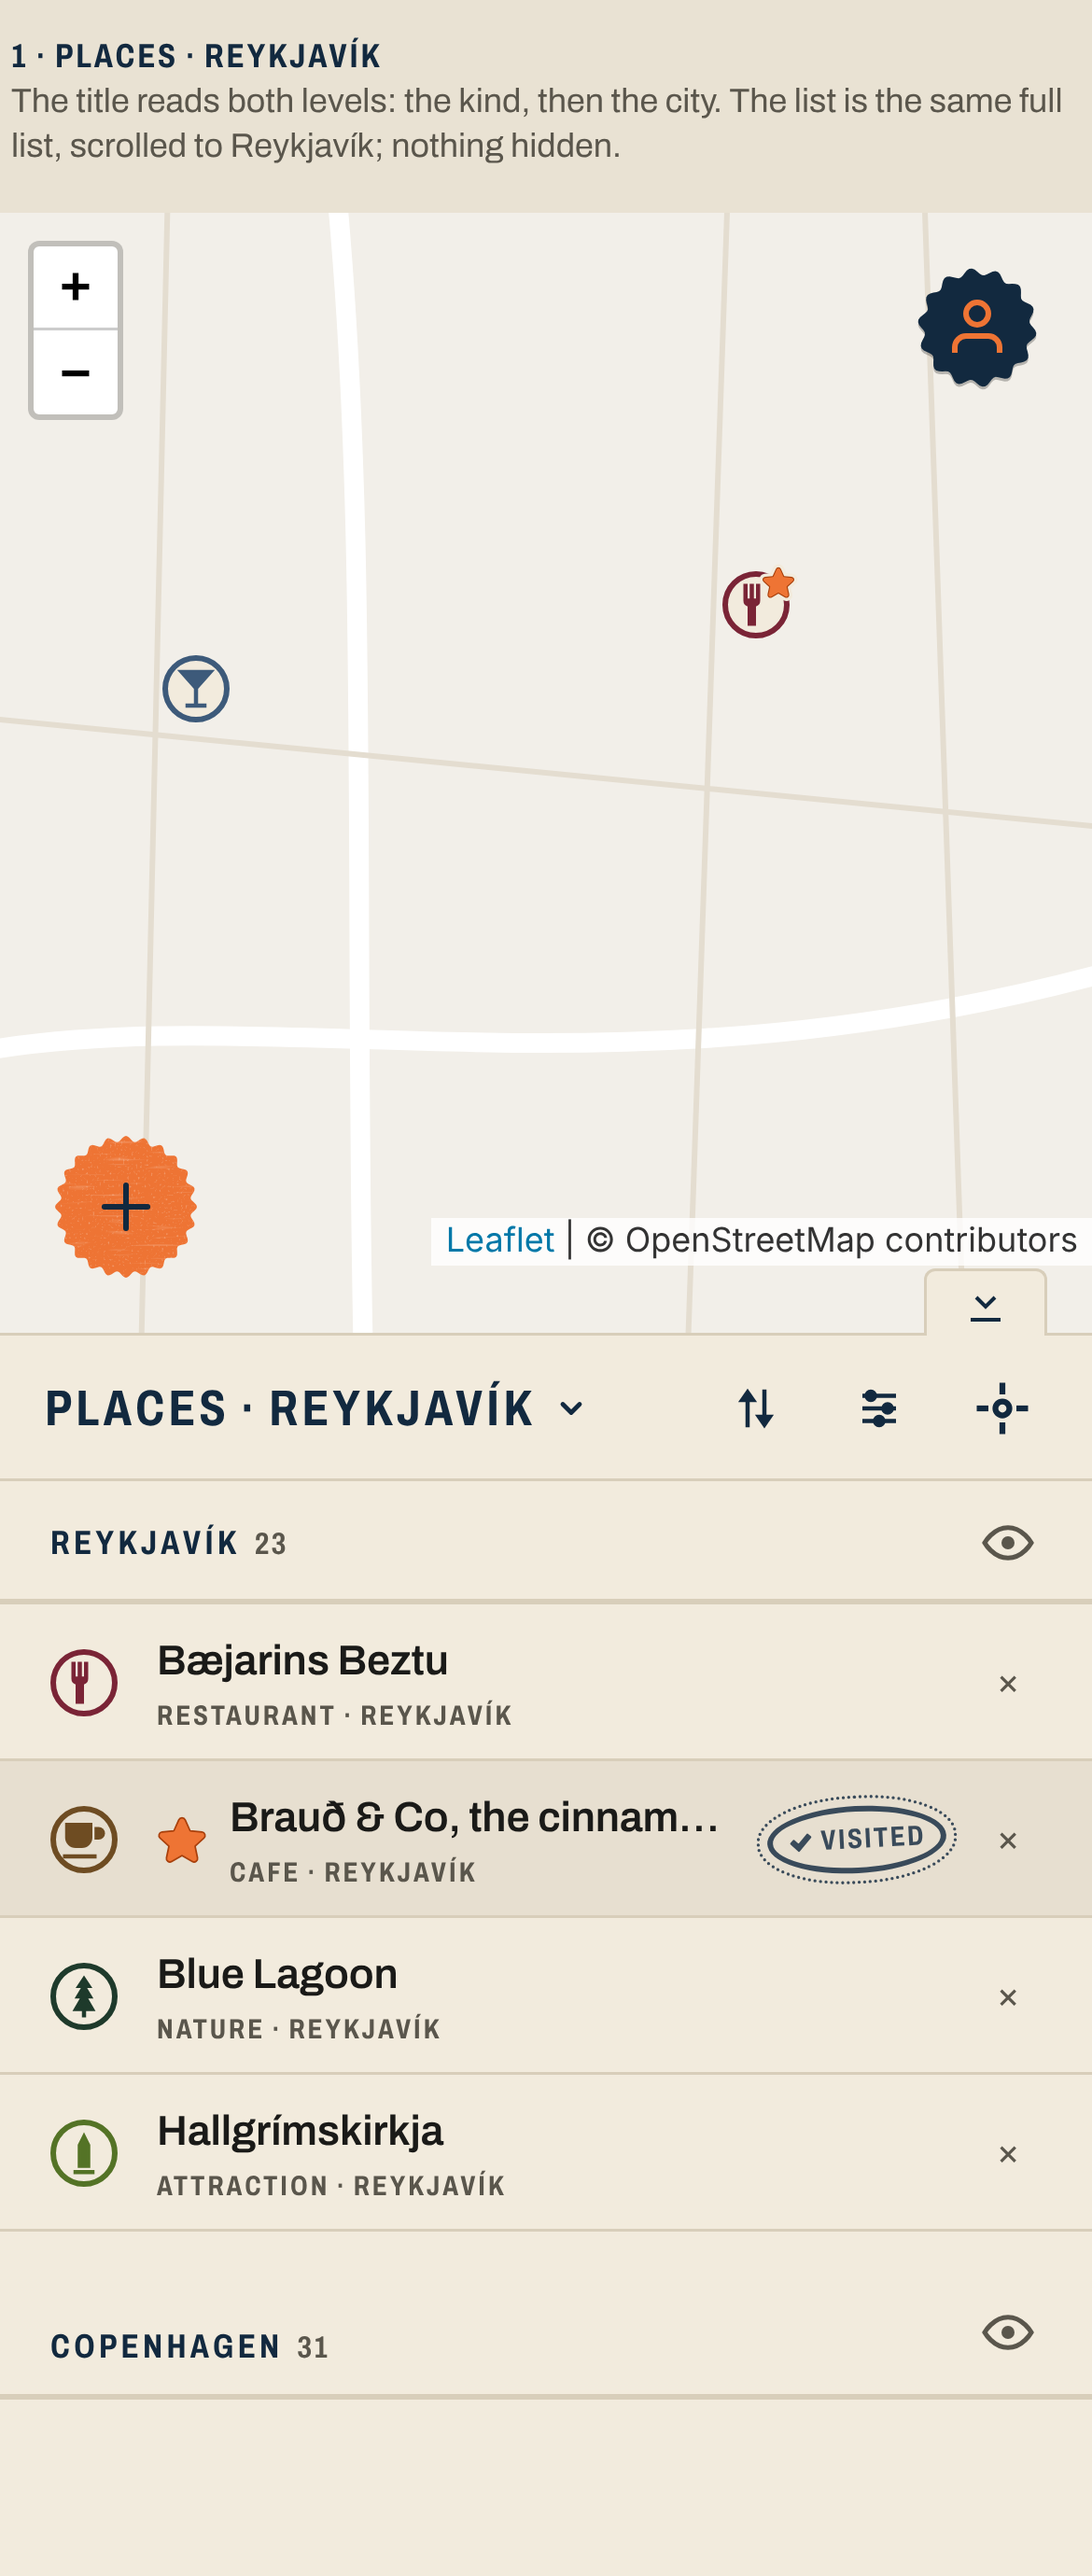
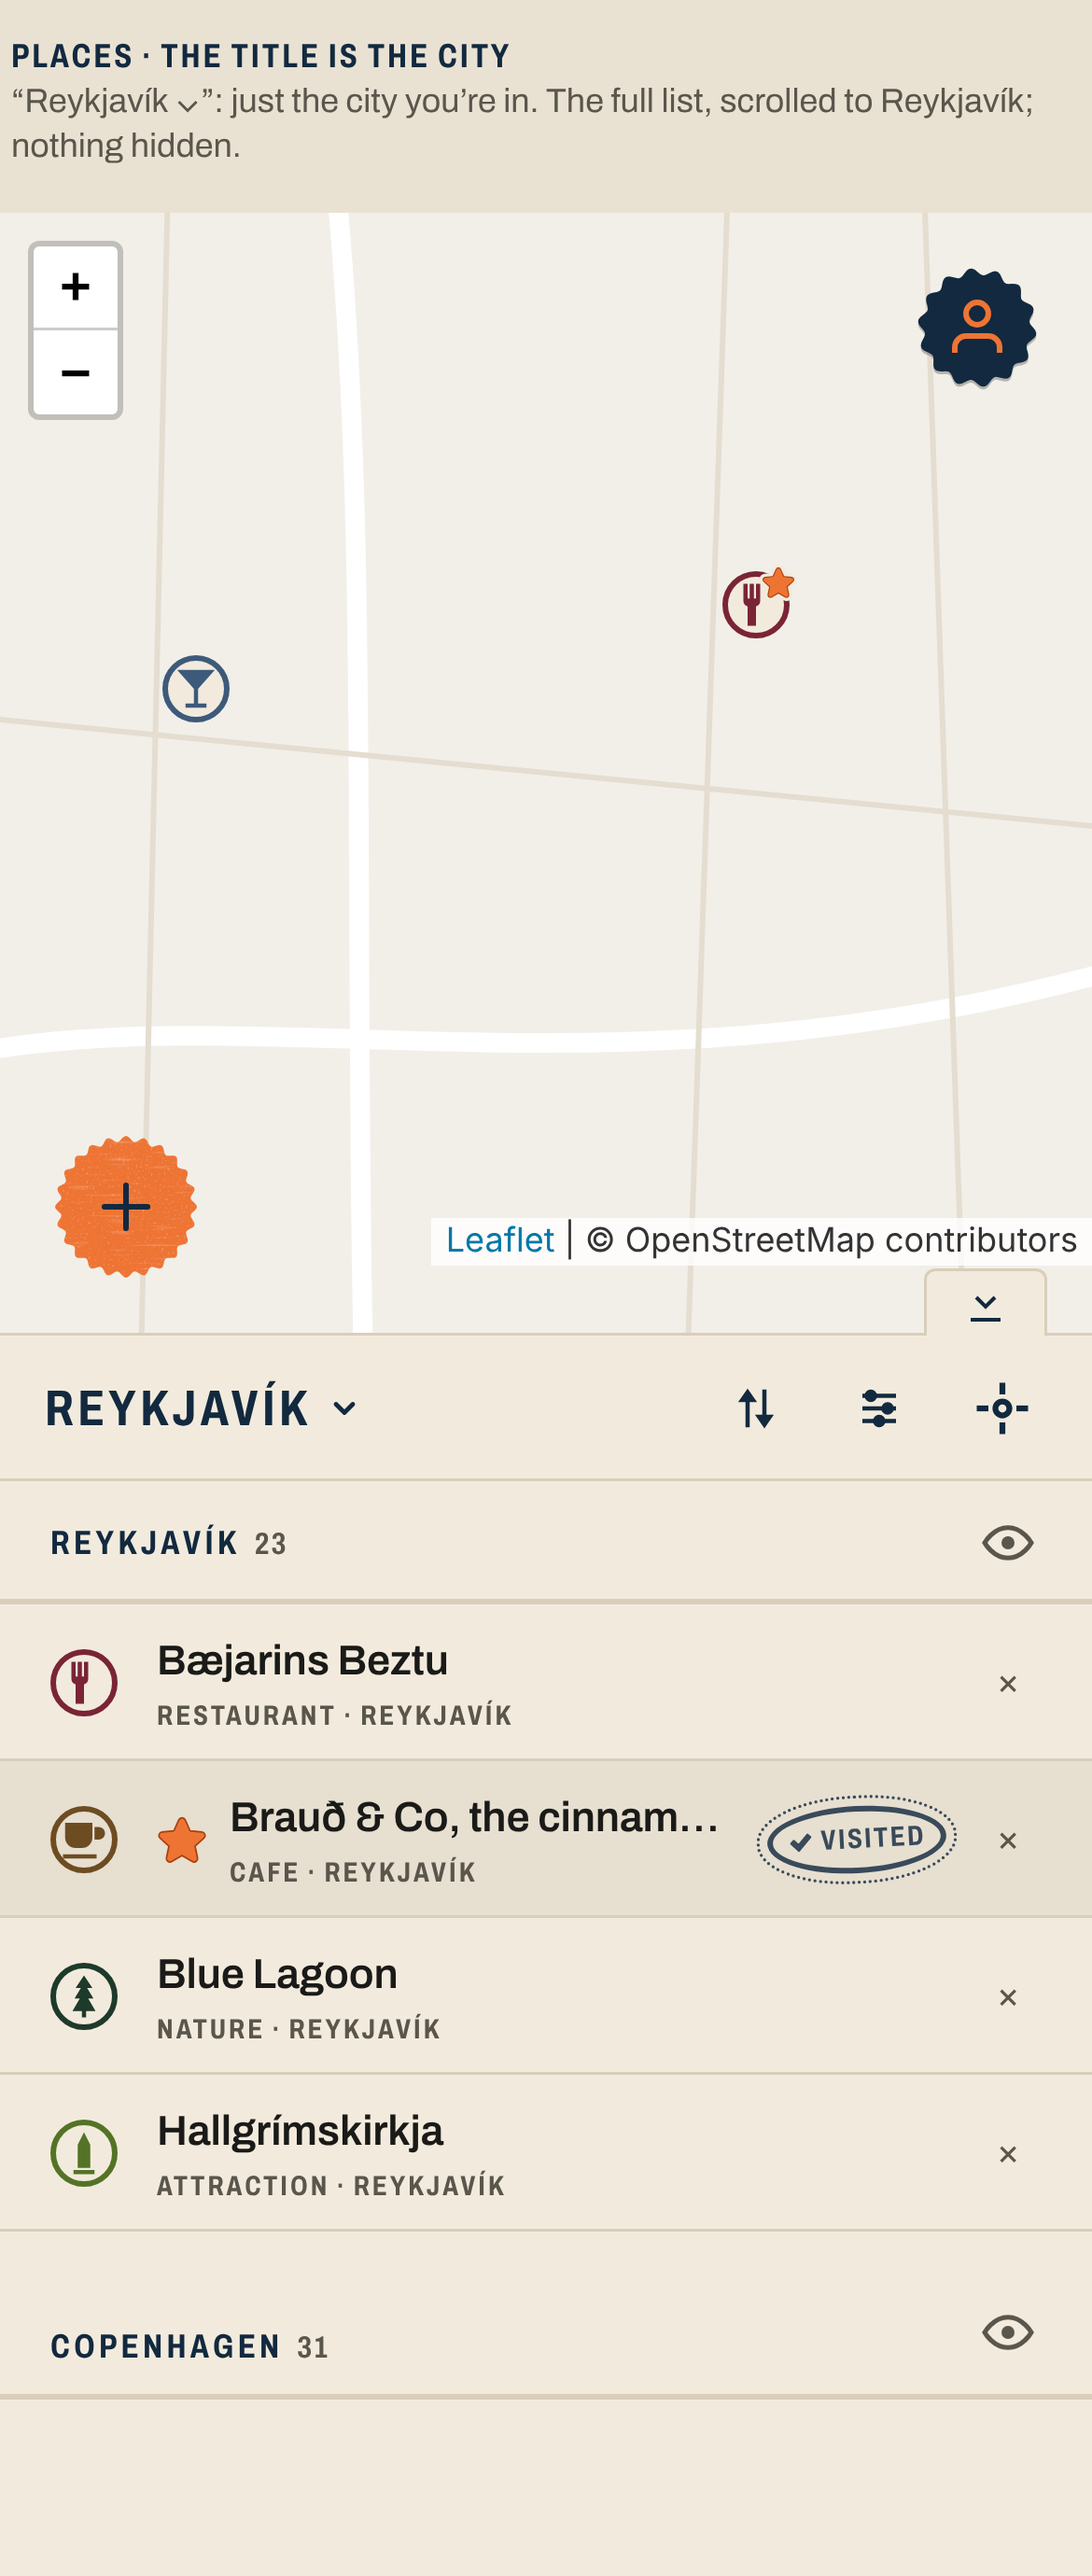
add-tag jam: v32 toggle variants
Claude-Session: https://claude.ai/code/session_01KJurQQYHfCNMLJBzKaXeDY

Changed region(s): [[0.0, 0.0, 0.8308, 0.0623], [0.0615, 0.5297, 0.4923, 0.5609], [0.8615, 0.0312, 0.9538, 0.0623]]

diff --git a/design/add-tag-jam/notes/visual.md b/design/add-tag-jam/notes/visual.md
@@ -182,3 +182,4 @@
 - v28: distance note decided: under the address rule as an 11px INK2 helper line ("≈ 40 km from Reykjavík"); first section under the list header is 44px (no air), later ones keep S1; list header = L2 (18/22 caps, 52 tall) everywhere, menus re-anchored; new board TypeDetected (Sundhöllin → Attraction, bakery → Cafe, pin matches); waiting list: Places/Plans, hidden city, Photon, TYPE detect + District/Street.
 - v29: TYPE auto-detect decided (neighbourhood → District); waiting list down to 3.
 - v31: hidden city decided H1 (in place on Go to 2; HiddenCity board H1 only; H2 split to HiddenCityH2, archived); waiting list: only Places and Plans. Stills of PlacesPlansKinds (live v31 file, byte-identical to local) at stills/places-plans/ (6 phones, 3x).
+- v32: Places/Plans Option 1 is the direction: list title reads just the city/plan ("Reykjavík ⌄", "Golden Circle ⌄", "All plans ⌄"); toggle variants T1 small segmented (28px, sized to words), T2 text tabs (navy underline), T3 quiet "Switch to Plans ›" footer row; Option 2 archived as PlacesPlansOpt2. Stills redone in stills/places-plans/.

diff --git a/design/add-tag-jam/owner.md b/design/add-tag-jam/owner.md
@@ -107,3 +107,5 @@ Orchestrator answer (thread 5baf422c): Photon (komoot, OSM, autocomplete + lat/l
 > (in chat, on the Photon test) Add it to the backlog but I want the test automated not manual
 > (chat) Definitely h1 for hidden cities
 > (in chat) Definitely h1 for hidden cities
+> (on Places and Plans) Places/plans does not need to be in the list header
+> (on the Places menu) This one is feeling the best but the toggle isn't right yet play with size and placement
